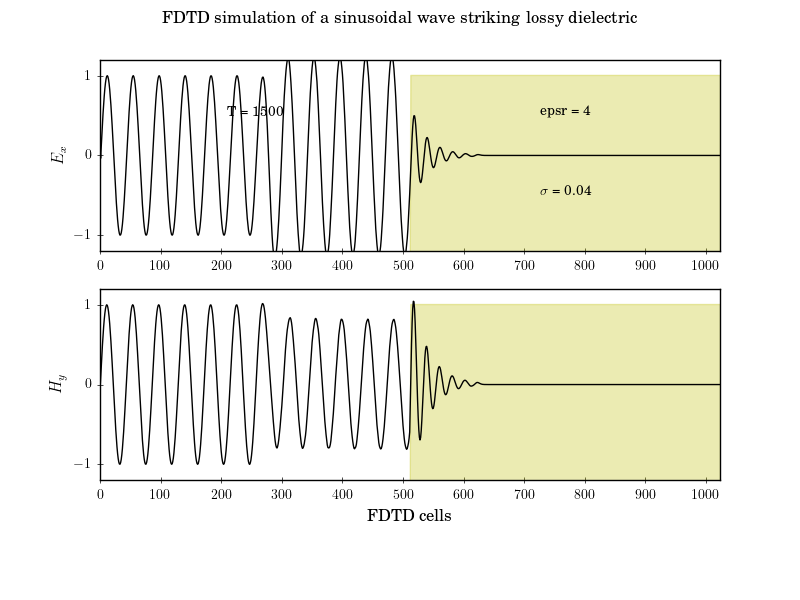
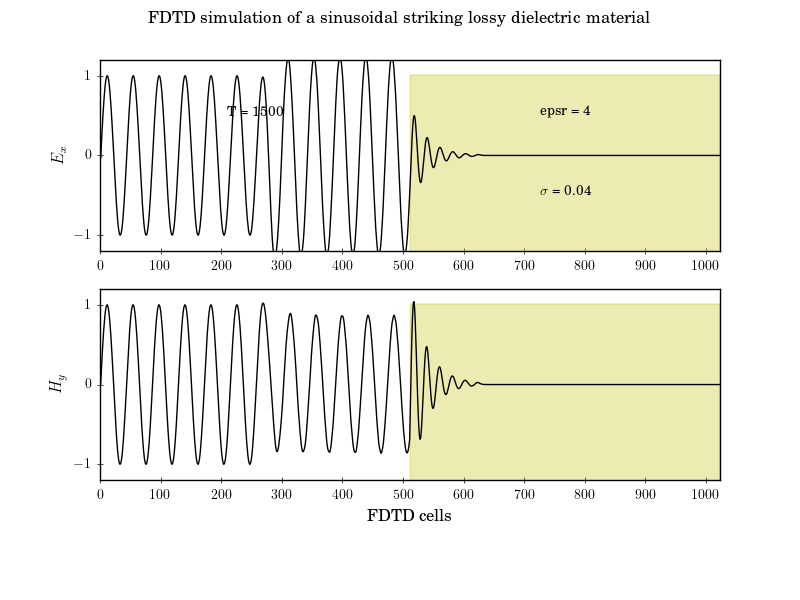
simulation of a propagating sinusoidal striking a lossy dielectric medium

Changed region(s): [[0.125, 0.51, 0.5625, 0.78], [0.1875, 0.0, 0.8125, 0.06], [0.5, 0.12, 0.5312, 0.15]]

diff --git a/fd1d/program/fd1d_1_5.py b/fd1d/program/fd1d_1_5.py
@@ -14,73 +14,69 @@ plt.style.use("../pyplot.mplstyle")
 
 
 def visualize(ns: int, nx: int, epsr: float, sigma: float, cb: np.ndarray, ex: np.ndarray, hy: np.ndarray) -> None:
-	fig, (ax1, ax2) = plt.subplots(2, sharex=False, gridspec_kw={"hspace": 0.2})
-	fig.suptitle(r"FDTD simulation of a sinusoidal wave striking lossy dielectric")
-	medium = (0.5/cb - 1)/(epsr - 1) if epsr > 1 else (0.5/cb - 1)
-	medium[medium==0] = -1.5
-	ax1.plot(ex, "k", lw=1)
-	ax1.fill_between(range(nx), medium, medium[0], color='y', alpha=0.3)
-	ax1.text(nx/4, 0.5, f"T = {ns}", horizontalalignment="center")
-	ax1.text(3*nx/4, 0.5, f"epsr = {epsr}", horizontalalignment="center")
-	ax1.text(3*nx/4, -0.5, rf"$\sigma$ = {sigma}", horizontalalignment="center")
-	ax1.set(xlim=(0, nx-1), ylim=(-1.2, 1.2), ylabel=r"$E_x$")
-	ax1.set(xticks=range(0, nx+1, round(nx//10,-1)), yticks=np.arange(-1, 1.2, 1))
-	ax2.plot(hy, "k", lw=1)
-	ax2.fill_between(range(nx), medium, medium[0], color='y', alpha=0.3)
-	ax2.set(xlim=(0, nx-1), ylim=(-1.2, 1.2), xlabel=r"FDTD cells", ylabel=r"$H_y$")
-	ax2.set(xticks=range(0, nx+1, round(nx//10,-1)), yticks=np.arange(-1, 1.2, 1))
-	plt.subplots_adjust(bottom=0.2, hspace=0.45)
-	plt.savefig("fd1d_1_5.png")
+    fig, (ax1, ax2) = plt.subplots(2, sharex=False, gridspec_kw={"hspace": 0.2})
+    fig.suptitle(r"FDTD simulation of a sinusoidal striking lossy dielectric material")
+    medium = (0.5/cb - 1)/(epsr - 1) if epsr > 1 else (0.5/cb - 1)
+    medium[medium==0] = -1e3
+    ax1.plot(ex, "k", lw=1)
+    ax1.fill_between(range(nx), medium, medium[0], color='y', alpha=0.3)
+    ax1.text(nx/4, 0.5, f"T = {ns}", horizontalalignment="center")
+    ax1.text(3*nx/4, 0.5, f"epsr = {epsr}", horizontalalignment="center")
+    ax1.text(3*nx/4, -0.5, rf"$\sigma$ = {sigma}", horizontalalignment="center")
+    ax1.set(xlim=(0, nx-1), ylim=(-1.2, 1.2), ylabel=r"$E_x$")
+    ax1.set(xticks=range(0, nx+1, round(nx//10,-1)), yticks=np.arange(-1, 1.2, 1))
+    ax2.plot(hy, "k", lw=1)
+    ax2.fill_between(range(nx), medium, medium[0], color='y', alpha=0.3)
+    ax2.set(xlim=(0, nx-1), ylim=(-1.2, 1.2), xlabel=r"FDTD cells", ylabel=r"$H_y$")
+    ax2.set(xticks=range(0, nx+1, round(nx//10,-1)), yticks=np.arange(-1, 1.2, 1))
+    plt.subplots_adjust(bottom=0.2, hspace=0.45)
+    plt.savefig("fd1d_1_5.png")
 
 
-def sinusoidal(t: int, ddx: float = 0.01, freq: float = 700e6) -> float:
-	dt: float = ddx/6e8  # time step
-	return np.sin(2 * np.pi * freq * dt * t)
+def sinusoidal(t: int, ddx: float, freq: float) -> float:
+    dt: float = ddx/6e8  # time step
+    return np.sin(2 * np.pi * freq * dt * t)
 
 
-def field(t: int, nx: int, ca: np.ndarray, cb: np.ndarray, ex: np.ndarray, hy: np.ndarray, bc: np.ndarray):
-	# calculate the Hy field
-	hy[0:nx-1] = hy[0:nx-1] + 0.5 * (ex[0:nx-1] - ex[1:nx])
-	# calculate the Ex field
-	ex[1:nx] = ca[1:nx] * ex[1:nx] + cb[1:nx] * (hy[0:nx-1] - hy[1:nx])
-	# put a sinusoidal wave at the low end
-	ex[1] = ex[1] + sinusoidal(t, 0.01, 700e6)
-	# absorbing boundary conditions
-	ex[0], bc[0], bc[1] = bc[0], bc[1], ex[1]
-	ex[nx-1], bc[3], bc[2] = bc[3], bc[2], ex[nx-2]
-
-
-def dielectric(nx: int, epsr: float = 1, sigma: float = 0.04, ddx: float = 0.01):
-	ca = 1.0 * np.ones(nx, dtype=np.float64)
-	cb = 0.5 * np.ones(nx, dtype=np.float64)
-	dt: float = ddx/6e8  # time step
-	eps0: float = 8.854e-12  # vacuum permittivity (F/m)
-	epsf: float = dt * sigma/(2 * eps0 * epsr)
-	ca[nx//2:] = (1 - epsf)/(1 + epsf)
-	cb[nx//2:] = 0.5/(epsr * (1 + epsf))
-	return ca, cb
+def dielectric(nx: int, dt: float, epsr: float, sigma: float) -> tuple:
+    ca = 1.0 * np.ones(nx, dtype=np.float64)
+    cb = 0.5 * np.ones(nx, dtype=np.float64)
+    eps0: float = 8.854e-12  # vacuum permittivity (F/m)
+    epsf: float = dt * sigma/(2 * eps0 * epsr)
+    ca[nx//2:] = (1 - epsf)/(1 + epsf)
+    cb[nx//2:] = 0.5/(epsr * (1 + epsf))
+    return ca, cb
 
 
 def main():
 
-	nx: int = 1024
-	ns: int = 1500
+    nx: int = 1024
+    ns: int = 1500
 
-	ex = np.zeros(nx, dtype=np.float64)
-	hy = np.zeros(nx, dtype=np.float64)
+    ex = np.zeros(nx, dtype=np.float64)
+    hy = np.zeros(nx, dtype=np.float64)
 
-	bc = np.zeros(4, dtype=np.float64)
+    bc = np.zeros(4, dtype=np.float64)
 
-	ddx: float = 0.01  # cell size (m)
-	epsr: float = 4  # relative permittivity
-	sigma: float = 0.04  # conductivity (S/m)
-	ca, cb = dielectric(nx, epsr, sigma, ddx)
+    ddx: float = 0.01  # cell size (m)
+    dt: float = ddx/6e8  # time step
+    epsr: float = 4  # relative permittivity
+    sigma: float = 0.04  # conductivity (S/m)
+    ca, cb = dielectric(nx, dt, epsr, sigma)
 
-	for t in range(1, ns+1):
-		field(t, nx, ca, cb, ex, hy, bc)
+    for t in np.arange(1, ns+1).astype(np.int32):
+        # calculate the Ex field
+        ex[1:nx] = ca[1:nx] * ex[1:nx] + cb[1:nx] * (hy[0:nx-1] - hy[1:nx])
+        # put a sinusoidal wave at the low end
+        ex[1] = ex[1] + sinusoidal(t, 0.01, 700e6)
+        # absorbing boundary conditions
+        ex[0], bc[0], bc[1] = bc[0], bc[1], ex[1]
+        ex[nx-1], bc[3], bc[2] = bc[3], bc[2], ex[nx-2]
+        # calculate the Hy field
+        hy[0:nx-1] = hy[0:nx-1] + 0.5 * (ex[0:nx-1] - ex[1:nx])
 
-	visualize(ns, nx, epsr, sigma, cb, ex, hy)
+    visualize(ns, nx, epsr, sigma, cb, ex, hy)
 
 
 if __name__ == "__main__":
-	main()
+    main()
